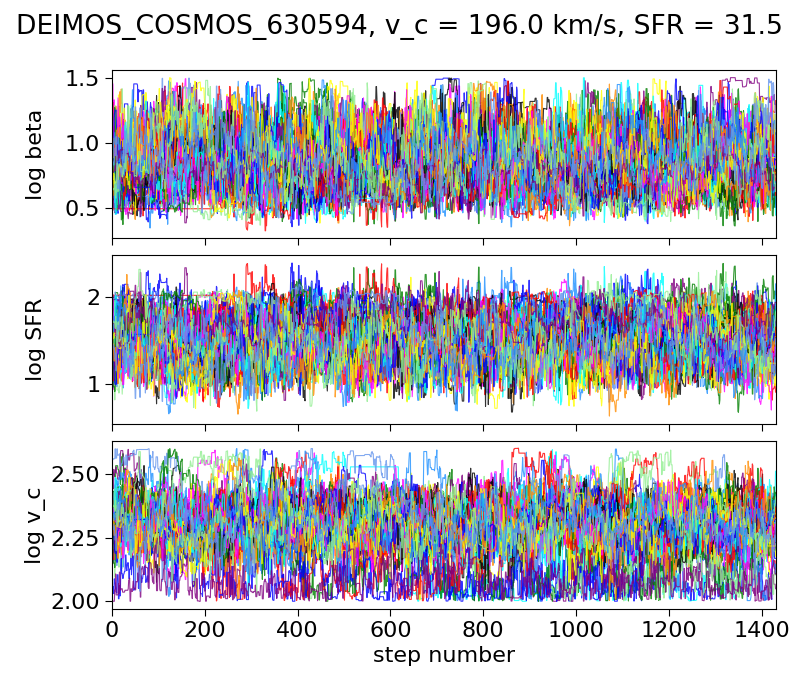
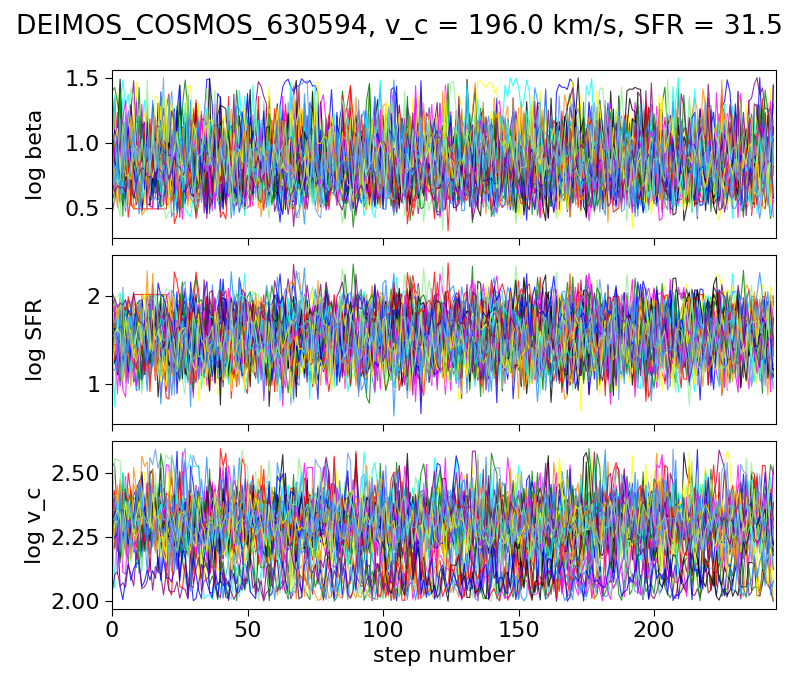
new trying to get emission signle chain

diff --git a/script/plotter_mcmc_new.py b/script/plotter_mcmc_new.py
@@ -21,7 +21,7 @@ import matplotlib
 
 from collections import namedtuple
 
-from load_data_updated import obs_data_list
+from load_data_new import obs_data_list
 
 
 
@@ -47,9 +47,9 @@ matplotlib.rcParams.update({
     #        "text.usetex": True
 })
 
-plot0 = False  # single emission chain
+plot0 = True  # single emission chain
 plot1 = False  # emission chains
-plot2 = True  # corners
+plot2 = False  # corners
 plot3 = False  # violins
 plot4 = False  # final trends
 
@@ -58,13 +58,13 @@ folder_plot = "plot_emcee"
 
 model = "old"
 nwalkers = 48
-nsteps = 1000
-thin = 1
-discard = 1
+nsteps = 100000
+thin = 100
+discard = 2000
 sample_step = int(800 * (nsteps / 1e3))
 walker_step = int(12 * (nwalkers / 48))
 
-data = obs_data_list[1]
+data = obs_data_list[0]
 
 string = "results for""\n""VC5110377875"
 
@@ -103,8 +103,9 @@ if plot0:
     filename = "{}_{:.0f}_updated_{}".format(data.params_obs["name_short"], nsteps, model)
 
     path = os.path.join(mydir.data_dir, folder_data, "{}.h5".format(filename))
+    path_machine = os.path.join("/Users/eliapizzati/projects/outflows/data_mcmc", "{}.h5".format(filename))
 
-    reader = emcee.backends.HDFBackend(path)
+    reader = emcee.backends.HDFBackend(path_machine)
 
     samples = reader.get_chain(thin=thin, discard=discard)
     samples_flat = reader.get_chain(flat=True, thin=thin, discard=discard)
@@ -137,25 +138,24 @@ if plot0:
 
     counter = 0
 
+    intx = np.random.randint(len(samples_flat), size=500)
 
-    for walker in samples[::sample_step]:
-        for theta in walker[::walker_step]:
+    for theta in samples_flat[intx]:
 
+        counter += 1
+        print("computing emission for theta =", theta, "\t", "iteration number {}/{}" \
+              .format(counter, int(nsteps * nwalkers / sample_step / walker_step / thin)))
 
-            counter += 1
-            print("computing emission for theta =", theta, "\t", "iteration number {}/{}" \
-                  .format(counter, int(nsteps * nwalkers / sample_step / walker_step / thin)))
+        # if theta[0]>1.15:# and theta[1]>50.:
+        intensity = get_emission_fast(theta, data, other_params, h, grid, f_beam)
 
-            # if theta[0]>1.15:# and theta[1]>50.:
-            intensity = get_emission_fast(theta, data, other_params, h, grid, f_beam)
+        ax.plot(h, intensity, alpha=0.1, color="gray")
 
-            ax.plot(h, intensity, alpha=0.1, color="gray")
+    alpine = ax.errorbar(data.x / (1000 * nc.pc), data.data, yerr=data.err, \
+                         markerfacecolor='maroon', markeredgecolor='maroon', marker='o', \
+                         linestyle='', ecolor='maroon')
 
-        alpine = ax.errorbar(data.x / (1000 * nc.pc), data.data, yerr=data.err, \
-                             markerfacecolor='maroon', markeredgecolor='maroon', marker='o', \
-                             linestyle='', ecolor='maroon')
-
-        # axs_flat[data_counter].legend(loc="lower center", ncol=8, fontsize="small")
+    # axs_flat[data_counter].legend(loc="lower center", ncol=8, fontsize="small")
 
     intensity_median = get_emission_fast(theta_median, data, other_params, h, grid, f_beam)
     ax.plot(h, intensity_median, alpha=1.0, color="navy", linestyle="--", lw=2.)
@@ -169,7 +169,11 @@ if plot0:
                         hspace=0.27)  # the amount of height reserved for space between subplots,
     # expressed as a fraction of the average axis height
 
-    plt.show()
+    # plt.show()
+    name = "emission_chain_mcmc_single"
+    path = os.path.join(mydir.plot_dir, name)
+
+    plt.savefig(path)
 
 if plot1:
     """
@@ -281,7 +285,7 @@ if plot2:
     samples = reader.get_chain(thin=thin, discard=discard)
     samples_flat = reader.get_chain(flat=True, thin=thin, discard=discard)
 
-    # tau = reader.get_autocorr_time(thin=thin, discard=discard)
+    tau = reader.get_autocorr_time(thin=1, discard=discard)
 
     print("###################################################################")
 
@@ -290,7 +294,7 @@ if plot2:
     print("n walkers = {}".format(nwalkers))
     print("data object = {}".format(data.params_obs["name_short"]))
     print("filename = {}".format(filename))
-
+    print("tau = {}".format(tau))
     print("###################################################################")
 
     kwargs = dict(
@@ -412,8 +416,9 @@ if plot3:
         print("###################################################################")
 
         path = os.path.join(mydir.data_dir, folder_data, "{}.h5".format(filename))
+        path_machine = os.path.join("/Users/eliapizzati/projects/outflows/data_mcmc", "{}.h5".format(filename))
 
-        reader = emcee.backends.HDFBackend(path)
+        reader = emcee.backends.HDFBackend(path_machine)
 
         samples_flat = reader.get_chain(flat=True, thin=thin, discard=discard)
 
@@ -544,8 +549,9 @@ if plot4:
         print("###################################################################")
 
         path = os.path.join(mydir.data_dir, folder_data, "{}.h5".format(filename))
+        path_machine = os.path.join("/Users/eliapizzati/projects/outflows/data_mcmc", "{}.h5".format(filename))
 
-        reader = emcee.backends.HDFBackend(path)
+        reader = emcee.backends.HDFBackend(path_machine)
 
         samples_flat = reader.get_chain(flat=True, thin=thin, discard=discard)
 

diff --git a/script/post_mcmc_new.py b/script/post_mcmc_new.py
@@ -19,7 +19,7 @@ import plot_config as pltc
 import mydir
 import natconst as nc
 
-from load_data_updated import obs_data_list, names, names_CII_halo, observational_data_fuji
+from load_data_new import obs_data_list, names, names_CII_halo, observational_data_fuji
 
 loading_from_cluster = False
 plot_logprob = False
@@ -30,12 +30,12 @@ plot2 = True #corners
 plot3 = False #emission
 plot4 = False #luminodity
 
-thin = 3
-discard = 2000
+thin = 200
+discard = 1000
 
 
 nwalkers = 48
-nsteps = int(input("number of steps?"))
+nsteps = 100000#int(input("number of steps?"))
 
 
 
@@ -80,7 +80,8 @@ log_prob_samples = reader.get_log_prob(flat=True, thin=thin, discard=discard)
 log_prior_samples = reader.get_blobs(flat=True, thin=thin, discard=discard)
 
 print("flat log prob shape: {0}".format(log_prob_samples.shape))
-# print(reader.get_autocorr_time())
+# print("tau = ", reader.get_autocorr_time(thin=1, discard=30000))
+print("N/100 = ", reader.get_chain(thin=1, discard=10000).shape[0]/100)
 
 all_samples = np.concatenate(
     (samples_flat, log_prob_samples[:, None]),

diff --git a/script/test_non_detection.py b/script/test_non_detection.py
@@ -12,7 +12,7 @@ import plot_config as pltc
 import mydir
 import natconst as nc
 
-from load_data_updated import obs_data_list_non_det, obs_data_list, names, names_wo_CII_halo, names_wo_CII_halo_short
+from load_data_new import obs_data_list_non_det, obs_data_list, names, names_wo_CII_halo, names_wo_CII_halo_short
 
 data0 = obs_data_list_non_det[0]
 data1 = obs_data_list[1]

diff --git a/script/mcmc_new.py b/script/mcmc_new.py
@@ -22,7 +22,7 @@ import emcee
 import natconst as nc
 
 import mydir
-from load_data_updated import obs_data_list, names, names_CII_halo, observational_data_fuji
+from load_data_new import obs_data_list, names, names_CII_halo, observational_data_fuji
 
 from scipy.interpolate import interp1d
 from fast_solver_new import diff_system_fast, stopping_condition

diff --git a/script/main_switchers.py b/script/main_switchers.py
@@ -7,7 +7,7 @@ from scipy.interpolate import interp1d
 
 from mcmc_new import get_emission_fast, get_other_params
 from mcmc_new import h, grid
-from load_data_updated import obs_data_list, names, names_CII_halo, observational_data_fuji
+from load_data_new import obs_data_list, names, names_CII_halo, observational_data_fuji
 
 
 import plot_config as pltc

diff --git a/script/mcmc_new_ptemcee.py b/script/mcmc_new_ptemcee.py
@@ -24,7 +24,7 @@ import time
 import natconst as nc
 
 import mydir
-from load_data_updated import obs_data_list, names, names_CII_halo, observational_data_fuji
+from load_data_new import obs_data_list, names, names_CII_halo, observational_data_fuji
 
 from scipy.interpolate import interp1d
 from fast_solver_new import diff_system_fast, stopping_condition

diff --git a/script/plotter_final_dependencies.py b/script/plotter_final_dependencies.py
@@ -4,7 +4,7 @@ import os
 import matplotlib.pyplot as plt
 
 
-from load_data_updated import obs_data_list, names, names_CII_halo, observational_data_fuji
+from load_data_new import obs_data_list, names, names_CII_halo, observational_data_fuji
 from scipy.interpolate import interp1d
 
 
